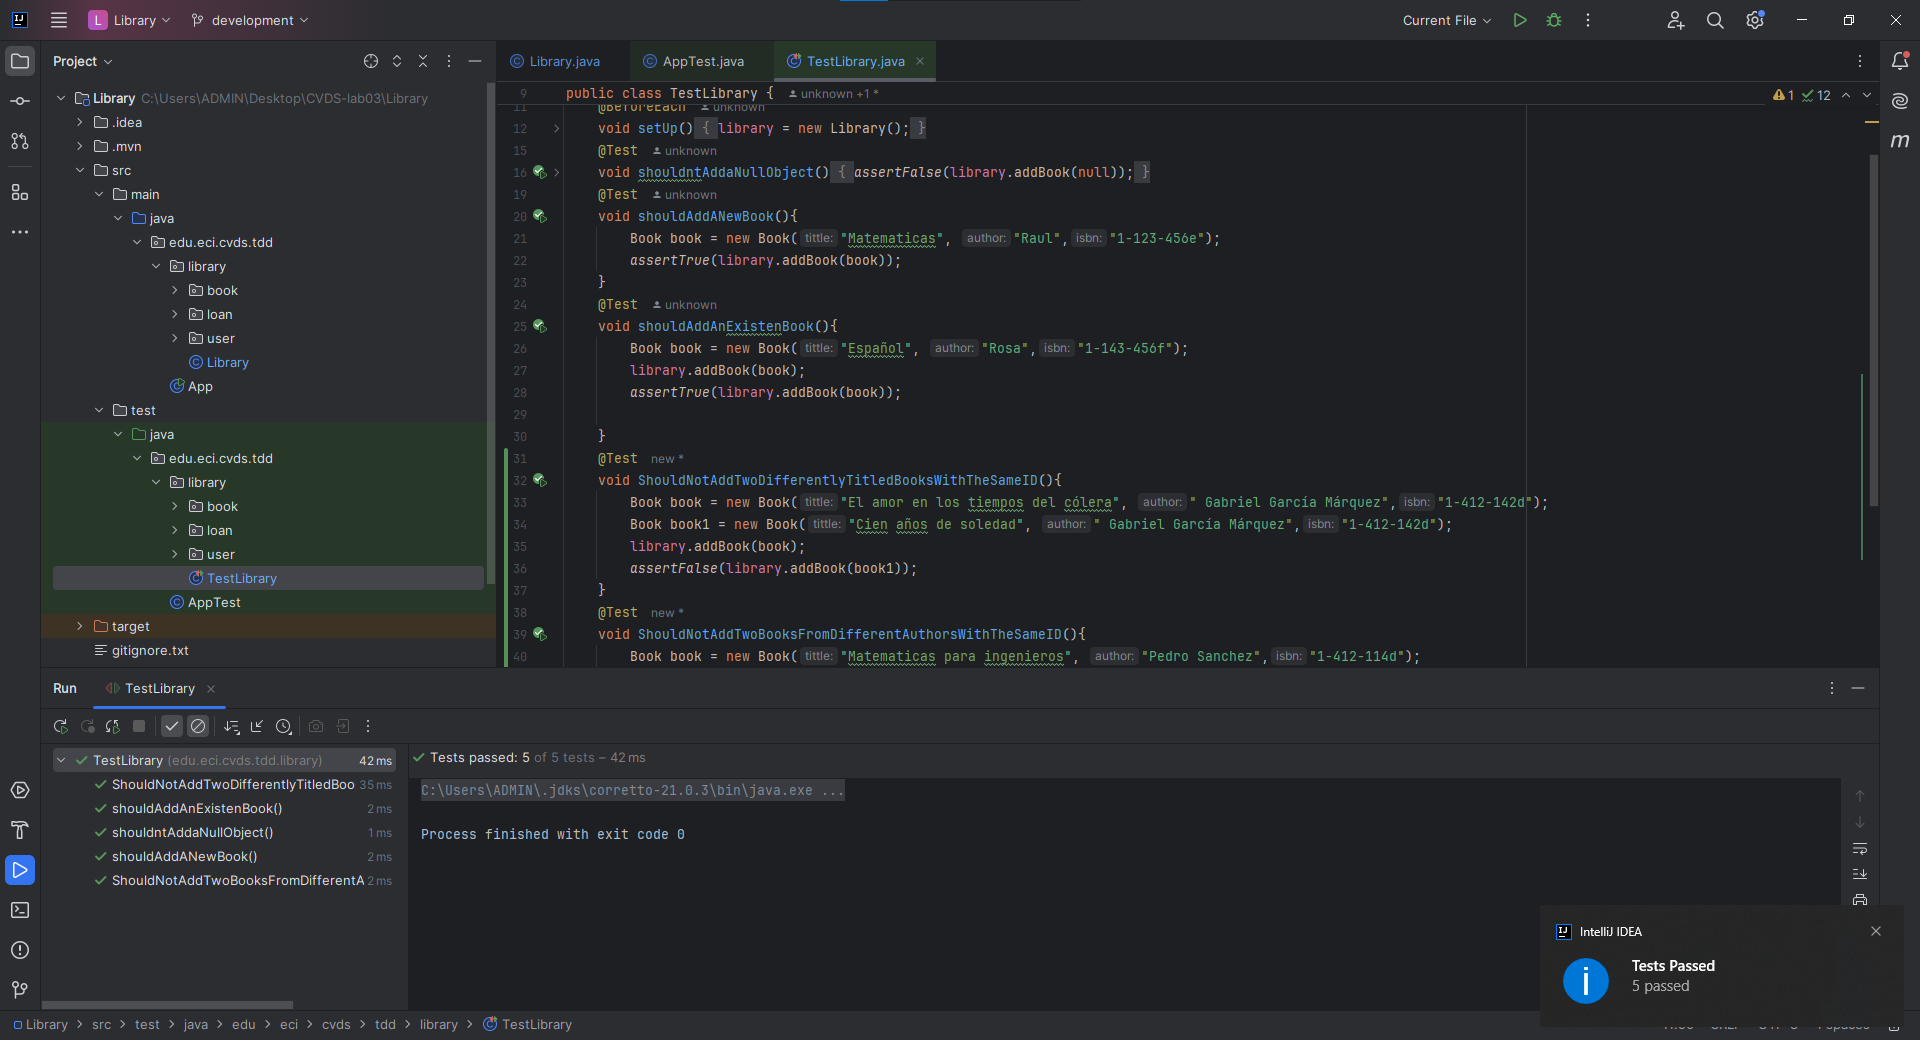
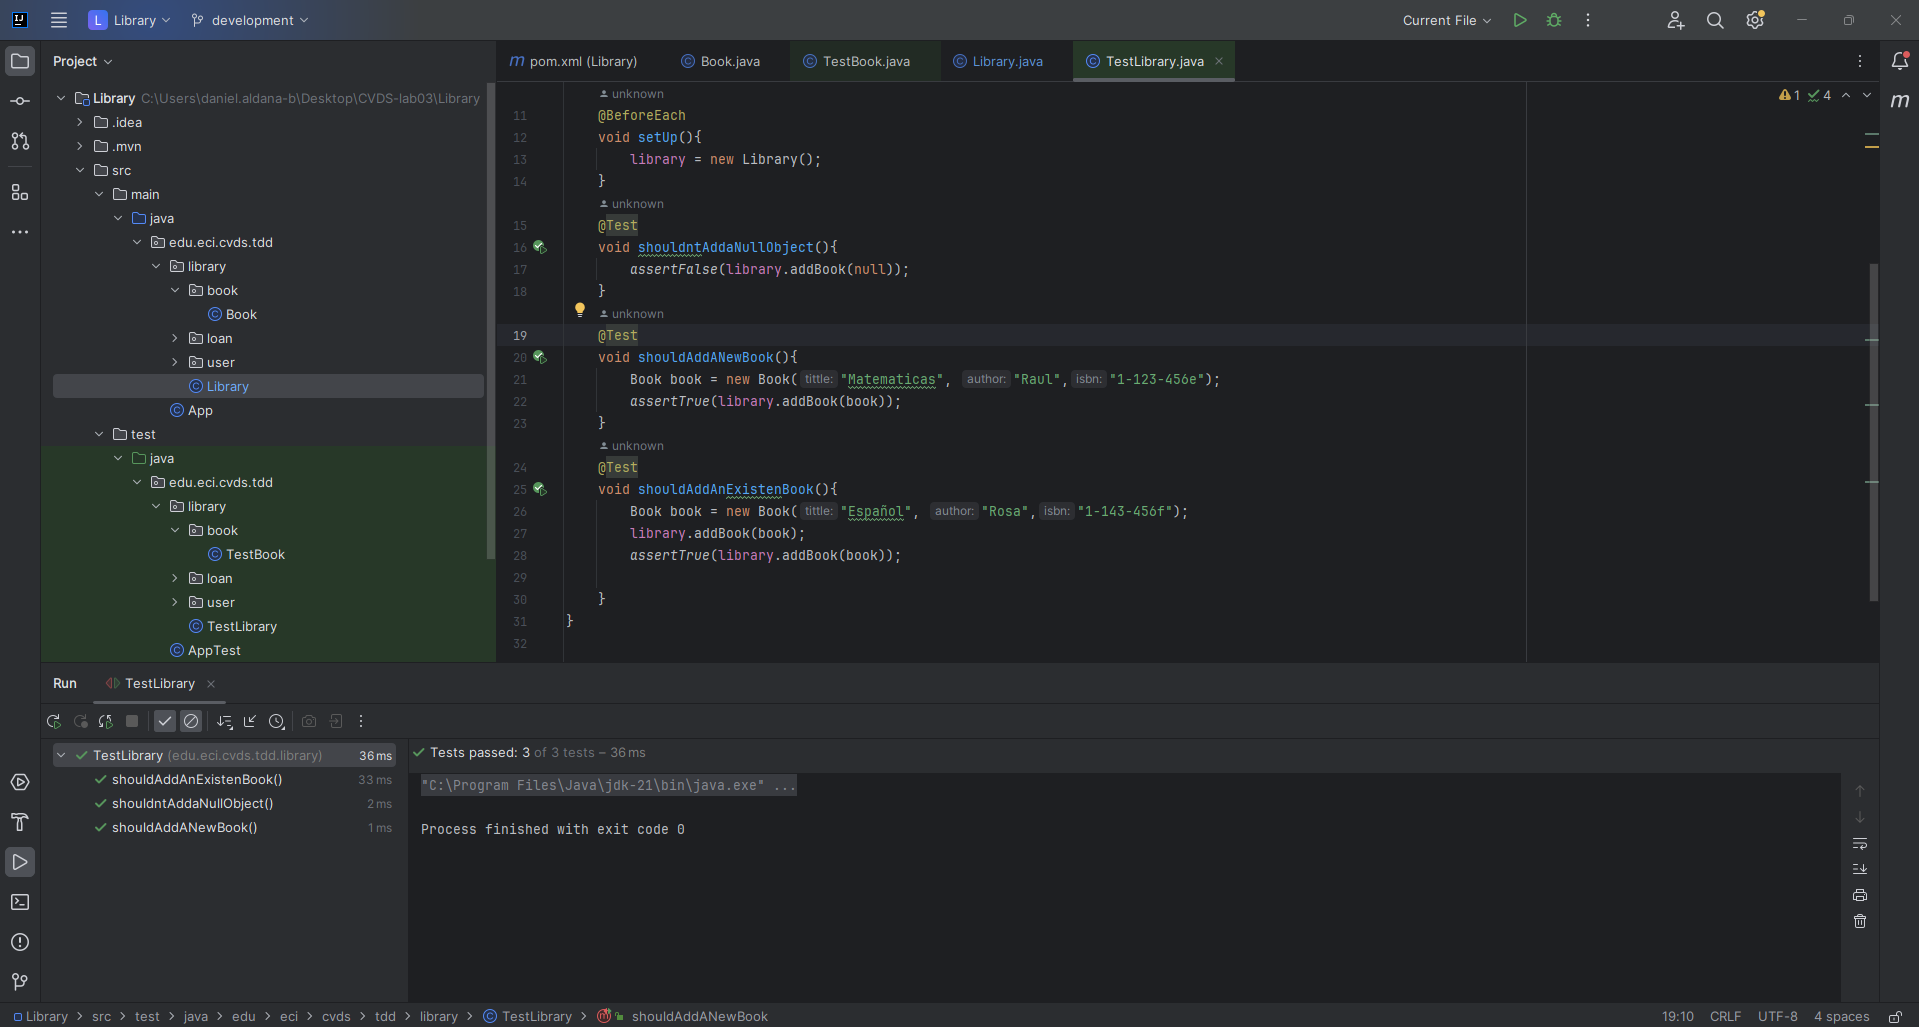
Revert "Release"

diff --git a/Library/src/test/java/edu/eci/cvds/tdd/library/TestLibrary.java b/Library/src/test/java/edu/eci/cvds/tdd/library/TestLibrary.java
@@ -1,23 +1,17 @@
 package edu.eci.cvds.tdd.library;
-
-import edu.eci.cvds.tdd.library.loan.Loan;
-import edu.eci.cvds.tdd.library.user.User;
 import org.junit.jupiter.api.BeforeEach;
 import org.junit.jupiter.api.Test;
 import edu.eci.cvds.tdd.library.Library;
 import edu.eci.cvds.tdd.library.book.Book;
 
-import static org.junit.jupiter.api.Assertions.*;
-
+import static org.junit.jupiter.api.Assertions.assertFalse;
+import static org.junit.jupiter.api.Assertions.assertTrue;
 public class TestLibrary {
     private Library library = new Library();
-
     @BeforeEach
     void setUp(){
         library = new Library();
     }
-
-    // addBook Tests
     @Test
     void shouldntAddaNullObject(){
         assertFalse(library.addBook(null));
@@ -33,58 +27,5 @@ public class TestLibrary {
         library.addBook(book);
         assertTrue(library.addBook(book));
 
-    }
-    @Test
-    void ShouldNotAddTwoDifferentlyTitledBooksWithTheSameID(){
-        Book book = new Book("El amor en los tiempos del cólera", " Gabriel García Márquez","1-412-142d");
-        Book book1 = new Book("Cien años de soledad", " Gabriel García Márquez","1-412-142d");
-        library.addBook(book);
-        assertFalse(library.addBook(book1));
-    }
-    @Test
-    void ShouldNotAddTwoBooksFromDifferentAuthorsWithTheSameID(){
-        Book book = new Book("Matematicas para ingenieros", "Pedro Sanchez","1-412-114d");
-        Book book1 = new Book("Matematicas para ingenieros", "Oscar Rodriguez","1-412-114d");
-        library.addBook(book);
-        assertFalse(library.addBook(book1));
-    }
-
-    // loanBook Tests
-    @Test
-    void shouldNotCreateALoanForANonExistentBook(){
-        assertNull(library.loanABook("123456789", "123-123-123-1"));
-    }
-    @Test
-    void shouldNotCreateALoanForANonExistentUser(){
-        assertNull(library.loanABook("123456789", "123-123-123-1"));
-    }
-    @Test
-    void shouldNotCreateALoanForAnUnavailableBook(){
-        Book book = new Book("Español", "Rosa","1-143-456f");
-        library.addBook(book);
-        User user1 = new User("Daniel Fernando Aldana Bueno", "1234567890");
-        library.addUser(user1);
-        User user2 = new User("Santiago Avellaneda Rodriguez", "9876543210");
-        library.addUser(user2);
-        library.loanABook("1234567890", "1-143-456f");
-        assertNull(library.loanABook("9876543210", "1-143-456f"));
-
-    }
-    @Test
-    void shouldNotCreateALoanForABookThatUserAlreadyLoaned(){
-        Book book = new Book("Español", "Rosa","1-143-456f");
-        library.addBook(book);
-        User user1 = new User("Daniel Fernando Aldana Bueno", "1234567890");
-        library.addUser(user1);
-        library.loanABook("1234567890", "1-143-456f");
-        assertNull(library.loanABook("1234567890", "1-143-456f"));
-    }
-    @Test
-    void shouldCreateALoan(){
-        Book book = new Book("Español", "Rosa","1-143-456f");
-        library.addBook(book);
-        User user1 = new User("Daniel Fernando Aldana Bueno", "1234567890");
-        library.addUser(user1);
-        assertNotNull(library.loanABook("1234567890", "1-143-456f"));
     }
 }

diff --git a/Library/src/main/java/edu/eci/cvds/tdd/library/Library.java b/Library/src/main/java/edu/eci/cvds/tdd/library/Library.java
@@ -39,12 +39,6 @@ public class Library {
         {
             return false;
         }
-        for(Book b : books.keySet()){
-            if (book.equals(b) && (!(book.getTittle().equals(b.getTittle())) || !(book.getAuthor().equals(b.getAuthor())))){
-                return false;
-            }
-        }
-
         if(books.containsKey(book)){
             Integer newValue = books.get(book) + 1;
             books.put(book, newValue);
@@ -52,8 +46,8 @@ public class Library {
         }
         books.put(book, 1);
         return true;
-
     }
+
     /**
      * This method creates a new loan with for the User identify by the userId and the book identify by the isbn,
      * the loan should be store in the list of loans, to successfully create a loan is required to validate that the

diff --git a/Library/src/main/java/edu/eci/cvds/tdd/library/user/User.java b/Library/src/main/java/edu/eci/cvds/tdd/library/user/User.java
@@ -4,10 +4,6 @@ public class User {
     private String name;
     private String id;
 
-    public User(String name, String id) {
-        this.name = name;
-        this.id = id;
-    }
     public String getName() {
         return name;
     }
@@ -22,13 +18,5 @@ public class User {
 
     public void setId(String id) {
         this.id = id;
-    }
-
-    @Override
-    public boolean equals(Object o) {
-        if (!(o instanceof User)){
-           return false;
-        }
-        return id.equals(((User) o).getId());
     }
 }

diff --git a/Library/src/main/java/edu/eci/cvds/tdd/library/loan/Loan.java b/Library/src/main/java/edu/eci/cvds/tdd/library/loan/Loan.java
@@ -12,11 +12,11 @@ public class Loan {
     private LoanStatus status;
     private LocalDateTime returnDate;
 
-    public Loan(Book book, User user) {
+    Loan(Book book, User user, LocalDateTime loanDate) {
         this.book = book;
         this.user = user;
-        this.loanDate = LocalDateTime.now();
-        this.status = LoanStatus.ACTIVE;
+        this.loanDate = loanDate;
+        status = LoanStatus.ACTIVE;
     }
 
     public Book getBook() {
